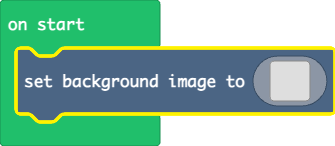
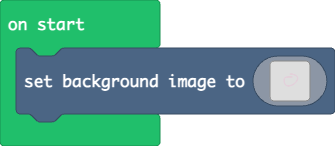
Update pxt.json, main.blocks, main.ts, tilemap.g.jres, tilemap.g.ts

Changed region(s): [[0.0299, 0.3014, 1.0, 0.8493]]

diff --git a/main.ts b/main.ts
@@ -24,66 +24,66 @@ scene.setBackgroundImage(img`
     ................................................................................................................................................................
     ................................................................................................................................................................
     ................................................................................................................................................................
-    ................................................................................................................................................................
-    ................................................................................................................................................................
-    ................................................................................................................................................................
-    ................................................................................................................................................................
-    ................................................................................................................................................................
-    ................................................................................................................................................................
-    ................................................................................................................................................................
-    ................................................................................................................................................................
-    ................................................................................................................................................................
-    ................................................................................................................................................................
-    ................................................................................................................................................................
-    ................................................................................................................................................................
-    ................................................................................................................................................................
-    ................................................................................................................................................................
-    ................................................................................................................................................................
-    ................................................................................................................................................................
-    ................................................................................................................................................................
-    ................................................................................................................................................................
-    ................................................................................................................................................................
-    ................................................................................................................................................................
-    ................................................................................................................................................................
-    ................................................................................................................................................................
-    ................................................................................................................................................................
-    ................................................................................................................................................................
-    ................................................................................................................................................................
-    ................................................................................................................................................................
-    ................................................................................................................................................................
-    ................................................................................................................................................................
-    ................................................................................................................................................................
-    ................................................................................................................................................................
-    ................................................................................................................................................................
-    ................................................................................................................................................................
-    ................................................................................................................................................................
-    ................................................................................................................................................................
-    ................................................................................................................................................................
-    ................................................................................................................................................................
-    ................................................................................................................................................................
-    ................................................................................................................................................................
-    ................................................................................................................................................................
-    ................................................................................................................................................................
-    ................................................................................................................................................................
-    ................................................................................................................................................................
-    ................................................................................................................................................................
-    ................................................................................................................................................................
-    ................................................................................................................................................................
-    ................................................................................................................................................................
-    ................................................................................................................................................................
-    ................................................................................................................................................................
-    ................................................................................................................................................................
-    ................................................................................................................................................................
-    ................................................................................................................................................................
-    ................................................................................................................................................................
-    ................................................................................................................................................................
-    ................................................................................................................................................................
-    ................................................................................................................................................................
-    ................................................................................................................................................................
-    ................................................................................................................................................................
-    ................................................................................................................................................................
-    ................................................................................................................................................................
-    ................................................................................................................................................................
+    ................................................................................333333333333....................................................................
+    ............................................................................................3333................................................................
+    ................................................................................................3333............................................................
+    ....................................................................................................33..........................................................
+    ......................................................................................................333.......................................................
+    .........................................................................................................33.....................................................
+    ...........................................................................................................33...................................................
+    .............................................................................................................3..................................................
+    ..............................................................................................................3.................................................
+    ...............................................................................................................33...............................................
+    .................................................................................................................3..............................................
+    ..................................................................................................................3.............................................
+    ...................................................................................................................3............................................
+    ....................................................................................................................3...........................................
+    ........................................................................33333333333333333333........................3...........................................
+    ...............................................................333333333.............................................3..........................................
+    ..........................................................33333......................................................3..........................................
+    ........................................................33............................................................3.........................................
+    .......................................................3..............................................................3.........................................
+    ......................................................3...............................................................3.........................................
+    .....................................................3................................................................3.........................................
+    .....................................................3................................................................3.........................................
+    ....................................................3.................................................................3.........................................
+    ....................................................3.................................................................3.........................................
+    ...................................................3.................................................................3..........................................
+    ...................................................3.................................................................3..........................................
+    ...................................................3.................................................................3..........................................
+    ...................................................3................................................................3...........................................
+    ...................................................3................................................................3...........................................
+    ...................................................3................................................................3...........................................
+    ...................................................3...............................................................3............................................
+    ...................................................3...............................................................3............................................
+    ...................................................3..............................................................3.............................................
+    ...................................................3..............................................................3.............................................
+    ...................................................3..............................................................3.............................................
+    ...................................................3.............................................................3..............................................
+    ...................................................3............................................................3...............................................
+    ...................................................3...........................................................3................................................
+    ...................................................3...........................................................3................................................
+    ...................................................3..........................................................3.................................................
+    ...................................................3.........................................................3..................................................
+    ...................................................3........................................................3...................................................
+    ....................................................3......................................................3....................................................
+    ....................................................3.....................................................3.....................................................
+    ....................................................3....................................................3......................................................
+    ....................................................3...................................................3.......................................................
+    .....................................................3.................................................3........................................................
+    .....................................................3................................................3.........................................................
+    ......................................................3..............................................3..........................................................
+    ......................................................3............................................33...........................................................
+    .......................................................3.........................................33.............................................................
+    ........................................................3.......................................3...............................................................
+    ........................................................3.....................................33................................................................
+    .........................................................3...................................3..................................................................
+    ..........................................................3................................33...................................................................
+    ...........................................................3.............................33.....................................................................
+    ............................................................33........................333.......................................................................
+    ..............................................................3...................3333..........................................................................
+    ...............................................................333333........33333..............................................................................
+    .....................................................................33333333...................................................................................
     ................................................................................................................................................................
     ................................................................................................................................................................
     ................................................................................................................................................................

diff --git a/tilemap.g.ts b/tilemap.g.ts
@@ -1,0 +1,14 @@
+// Auto-generated code. Do not edit.
+namespace myTiles {
+    //% fixedInstance jres blockIdentity=images._tile
+    export const transparency16 = image.ofBuffer(hex``);
+
+    helpers._registerFactory("tile", function(name: string) {
+        switch(helpers.stringTrim(name)) {
+            case "transparency16":return transparency16;
+        }
+        return null;
+    })
+
+}
+// Auto-generated code. Do not edit.
